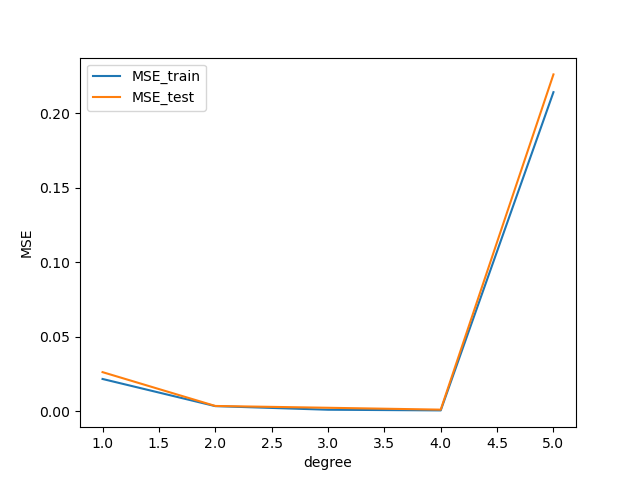
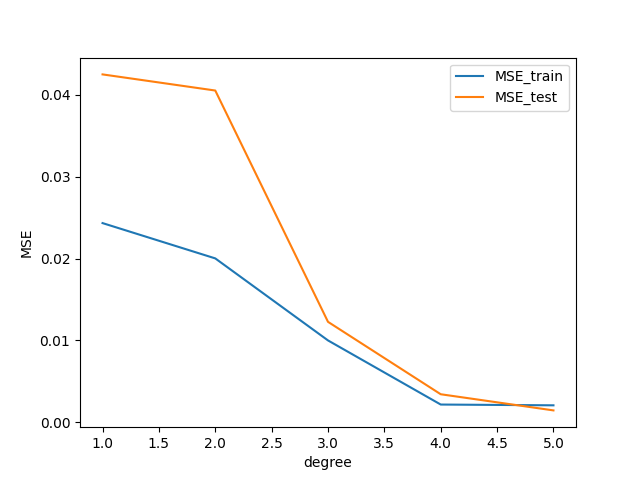
Added ols.py for computing OLS (copied and edited from fysstkproject1regression.py, and franke_visualize.py for visualizing the Franke function (the code from Morten, copied from fysstkproject1regression.py)

diff --git a/Project_1/Code/ols.py b/Project_1/Code/ols.py
@@ -5,21 +5,14 @@ import sklearn.model_selection
 from sklearn import linear_model
 import pandas as pd
 
-from mpl_toolkits.mplot3d import Axes3D
-from matplotlib import cm
-from matplotlib.ticker import LinearLocator, FormatStrFormatter
+from sklearn.preprocessing import PolynomialFeatures
+from sklearn.linear_model import LinearRegression
+from sklearn.metrics import mean_squared_error, r2_score
+from sklearn.model_selection import train_test_split
+
 from random import random, seed
 
-## Making the Franke function. This part is largely copied from the projection description
-fig = plt.figure()
-ax = fig.add_subplot(projection='3d')
-
-# Generate data.
-x = np.arange(0, 1, 0.05)
-y = np.arange(0, 1, 0.05)
-x, y = np.meshgrid(x,y)
-
-def FrankeFunction(x, y):
+def FrankeFunction(x: float, y: float) -> float:
     """ Calculates the Franke function at a point (x,y) """
     term1 = 0.75*np.exp(-(0.25*(9*x-2)**2) - 0.25*((9*y-2)**2))
     term2 = 0.75*np.exp(-((9*x+1)**2)/49.0 - 0.1*(9*y+1))
@@ -27,55 +20,75 @@ def FrankeFunction(x, y):
     term4 = -0.2*np.exp(-(9*x-4)**2 - (9*y-7)**2)
     return term1 + term2 + term3 + term4
 
-z = FrankeFunction(x, y) # Calculate the Franke function for our dataset.
+def OLSfit(x: np.ndarray, y: np.ndarray, z: np.ndarray, deg: int) -> tuple:
+    """ Calculates a model fitting our data using ordinary least squares.
+    
+    ## Parameters
+        x (ndarray): x-values of data points.
+        y (ndarray): y-values of data points.
+        z (ndarray): z-values of data points.
+        deg (int): Degree of polynomial fit.
+    
+    ## Returns
+        MSE_train (float): Mean square error of model on training data.
+        MSE_test (float): Mean square error of model on test data.
+        R2_train (float): R2 value of model on training data.
+        R2_test (float): R2 value of model on test data.
+        beta (ndarray): Coefficients of model.
+    
+    """
+    ## Create feature matrix 
+    xy_dic = {
+        "x": x,
+        "y": y
+    }
+    xy = pd.DataFrame(xy_dic)
 
-# Plot the surface.
-surf = ax.plot_surface(x, y, z, cmap=cm.coolwarm, linewidth=0, antialiased=False)
-ax.set_zlim(-0.10, 1.40)
-ax.zaxis.set_major_locator(LinearLocator(10))
-ax.zaxis.set_major_formatter(FormatStrFormatter('%.02f'))
-fig.colorbar(surf, shrink=0.5, aspect=5)
-plt.savefig("franke_function")
+    poly = PolynomialFeatures(degree=deg)
+    X = poly.fit_transform(xy) # Find feature matrix 
 
+    # Scale X and z by subtracting mean (also ignore intercept of X to avoid
+    # getting a singular matrix when calculating OLS).
+    X = pd.DataFrame(X[:,1:])
+    X = X - X.mean()
+    z = pd.DataFrame(z)
+    z = z - z.mean()
 
-## OLS-function, structured close to the code in the lecture notes, with some changes for our case
-x = np.sort(np.random.rand(100))
-y = np.sort(np.random.rand(100))
+    ## Split X and z into train- and test data
+    X_train, X_test, z_train, z_test = train_test_split(X, z, test_size=0.2)
+
+    ## Compute coefficients beta
+    beta = np.linalg.inv(X_train.T @ X_train) @ X_train.T @ z_train
+    
+    ## Compute z_tilde from train data and z_predict from test_data
+    z_tilde = X_train @ beta
+    z_predict = X_test @ beta
+
+    ## Compute mean squared error (MSE) and R2-value from the model on train- and test data
+    MSE_train = mean_squared_error(z_train,z_tilde)
+    MSE_test = mean_squared_error(z_test,z_predict)
+    R2_train = r2_score(z_train,z_tilde)
+    R2_test = r2_score(z_test,z_predict)
+    return MSE_train, MSE_test, R2_train, R2_test, beta
+
+## Creating data set
+N = 100 # Number of data points
+x = np.sort(np.random.rand(N))
+y = np.sort(np.random.rand(N))
 z = FrankeFunction(x, y)
 z_with_noise = z + np.random.normal(0, 1, z.shape)
 
-def OLSfit(x,y,z,deg):
-    X = np.zeros((len(x), int((deg+1)**2)-1)) #Design matrix
-    k = 0
-    for i in range(0, int(deg+1)):
-        for j in range(0, int(deg+1)):
-            if i==0 and j==0:
-                a ="Dont add anything" #We dont add the intercept
-            else:
-                X[:,k] = x**i*y**j
-                k+=1
+## Initiate arrays for the values that we want to compute
+deg_num = 5
+degs = np.linspace(1, deg_num, deg_num, dtype=int)
+MSE_train_array = np.zeros(deg_num)
+MSE_test_array = np.zeros(deg_num)
+R2_train_array = np.zeros(deg_num)
+R2_test_array = np.zeros(deg_num)
+beta_list = [0]*deg_num
 
-    X_pandas = pd.DataFrame(X[:,:])
-    X_pandas = X_pandas - X_pandas.mean()
-    X_train, X_test, z_train, z_test = sklearn.model_selection.train_test_split(X_pandas, z, test_size= 0.2, random_state=0)
-    z_test = z_test -np.mean(z_train)
-    z_train = z_train -np.mean(z_train)
-    beta = np.linalg.inv(X_train.T @ X_train) @ X_train.T @ z_train
-    ztilde = X_train @ beta
-    zpredict = X_test @ beta
-    MSE_train = sklearn.metrics.mean_squared_error(z_train,ztilde)
-    MSE_test = sklearn.metrics.mean_squared_error(z_test,zpredict)
-    R2_train = sklearn.metrics.r2_score(z_train,ztilde)
-    R2_test = sklearn.metrics.r2_score(z_test,zpredict)
-    return MSE_train, MSE_test, R2_train, R2_test, beta
-
-degs = np.linspace(1,5,5)
-MSE_train_array = np.zeros(5)
-MSE_test_array = np.zeros(5)
-R2_train_array = np.zeros(5)
-R2_test_array = np.zeros(5)
-beta_list = [0]*5
-for i in range(0,5):
+## Compute values from OLS
+for i in range(deg_num):
     MSE_train_array[i], MSE_test_array[i], R2_train_array[i], R2_test_array[i], beta_list[i] = OLSfit(x,y,z,degs[i])
 
 plt.figure()

diff --git a/Project_1/Code/franke_visualize.py b/Project_1/Code/franke_visualize.py
@@ -1,0 +1,34 @@
+import numpy as np
+import matplotlib.pyplot as plt
+
+from mpl_toolkits.mplot3d import Axes3D
+from matplotlib import cm
+from matplotlib.ticker import LinearLocator, FormatStrFormatter
+from random import random, seed
+
+## Making the Franke function. This part is largely copied from the projection description
+fig = plt.figure()
+ax = fig.add_subplot(projection='3d')
+
+# Generate data.
+x = np.arange(0, 1, 0.05)
+y = np.arange(0, 1, 0.05)
+x, y = np.meshgrid(x,y)
+
+def FrankeFunction(x, y):
+    """ Calculates the Franke function at a point (x,y) """
+    term1 = 0.75*np.exp(-(0.25*(9*x-2)**2) - 0.25*((9*y-2)**2))
+    term2 = 0.75*np.exp(-((9*x+1)**2)/49.0 - 0.1*(9*y+1))
+    term3 = 0.5*np.exp(-(9*x-7)**2/4.0 - 0.25*((9*y-3)**2))
+    term4 = -0.2*np.exp(-(9*x-4)**2 - (9*y-7)**2)
+    return term1 + term2 + term3 + term4
+
+z = FrankeFunction(x, y) # Calculate the Franke function for our dataset.
+
+# Plot the surface.
+surf = ax.plot_surface(x, y, z, cmap=cm.coolwarm, linewidth=0, antialiased=False)
+ax.set_zlim(-0.10, 1.40)
+ax.zaxis.set_major_locator(LinearLocator(10))
+ax.zaxis.set_major_formatter(FormatStrFormatter('%.02f'))
+fig.colorbar(surf, shrink=0.5, aspect=5)
+plt.savefig("franke_function")
